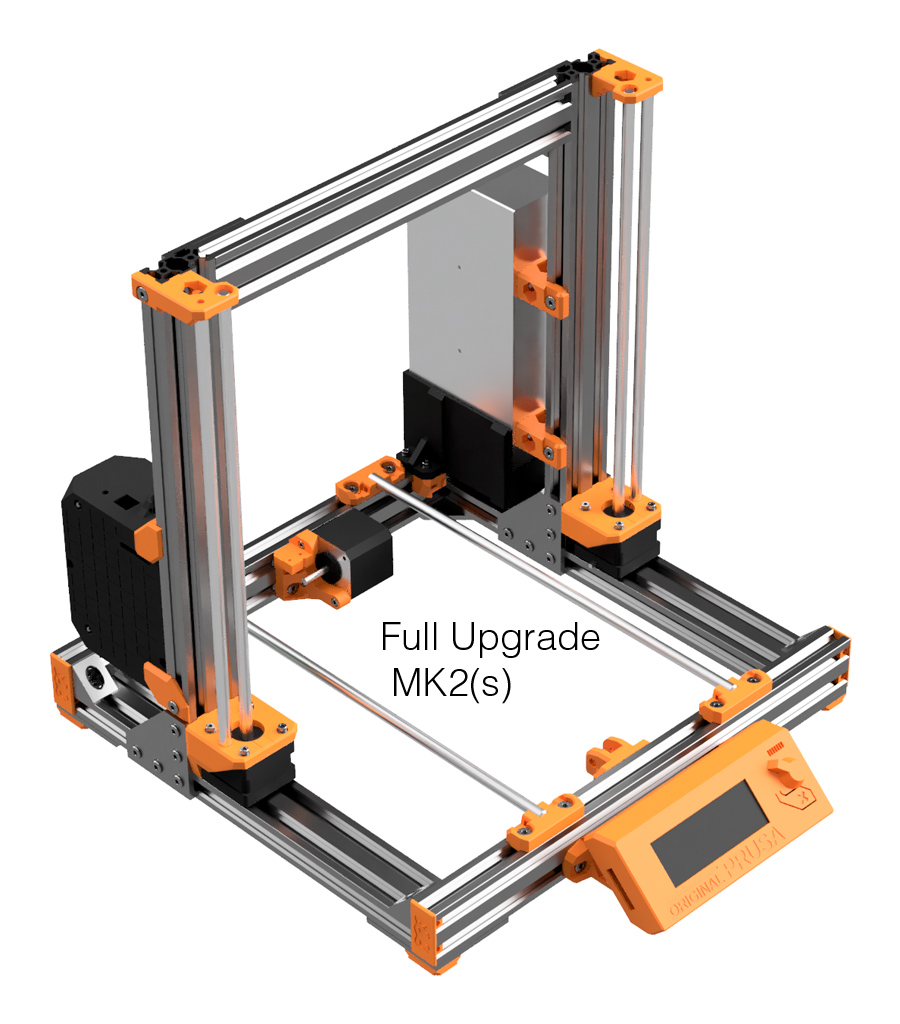
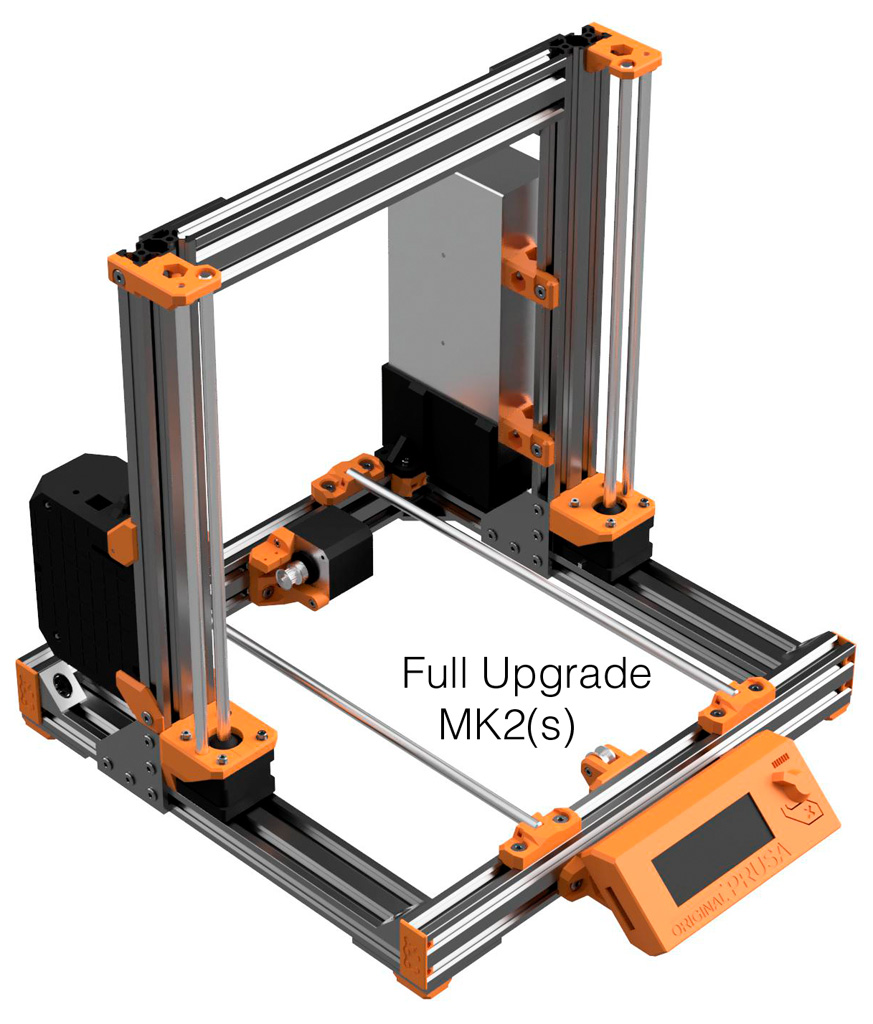
update title to latest versions

diff --git a/full_upgrade/README.md b/full_upgrade/README.md
@@ -35,8 +35,8 @@ Those versions are split in 3 folders and they have their own printed parts, man
 
 Be sure to get the correct version according to your printer
 
-[![Prusa i3 Bear Full Upgrade MK2s](/img/full_upgrade_mk2s_lq.jpg)](for_mk2_mk2s)
+[![Prusa i3 Bear Full Upgrade MK2s](/img/full_upgrade_mk2s_title_1024px.jpg)](for_mk2_mk2s)
 
-[![Prusa i3 Bear Full Upgrade MK2.5](/img/full_upgrade_mk25_lq.jpg)](for_mk2.5)
+[![Prusa i3 Bear Full Upgrade MK2.5](/img/full_upgrade_mk25_title_1024px.jpg)](for_mk2.5)
 
-[![Prusa i3 Bear Full Upgrade MK3](/img/full_upgrade_mk3_lq.jpg)](for_mk3)
+[![Prusa i3 Bear Full Upgrade MK3](/img/full_upgrade_mk3_title_1024px.jpg)](for_mk3)
